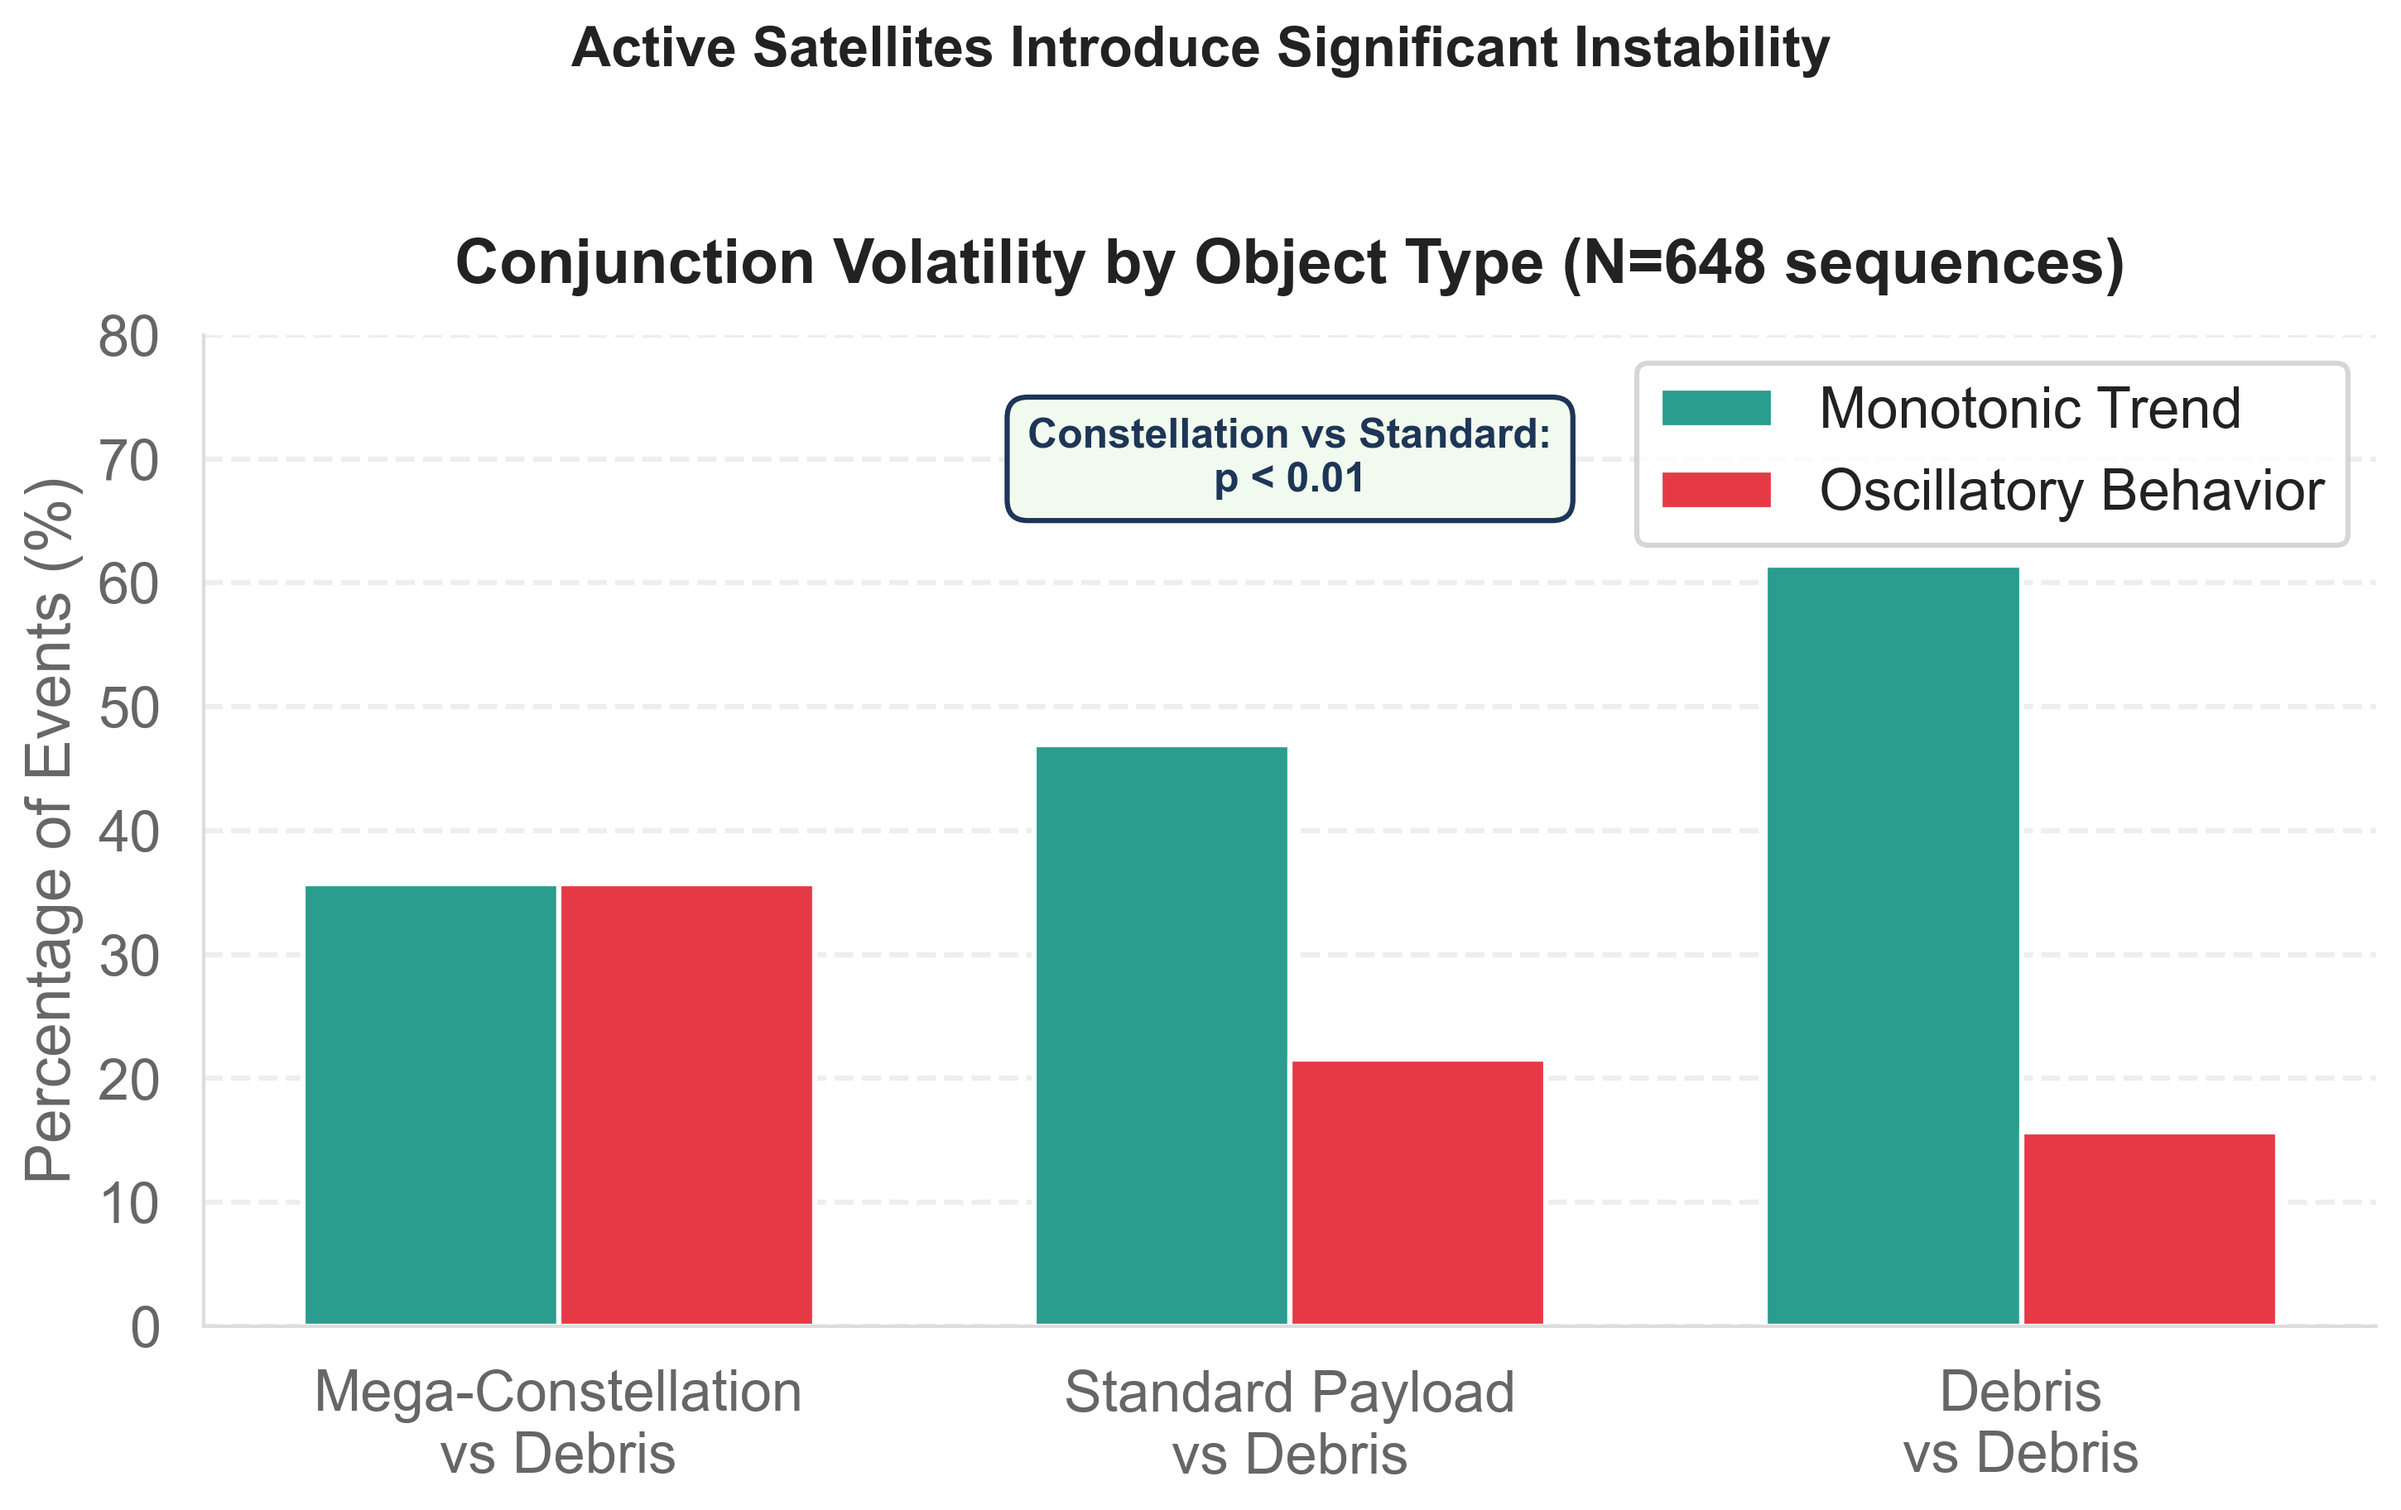
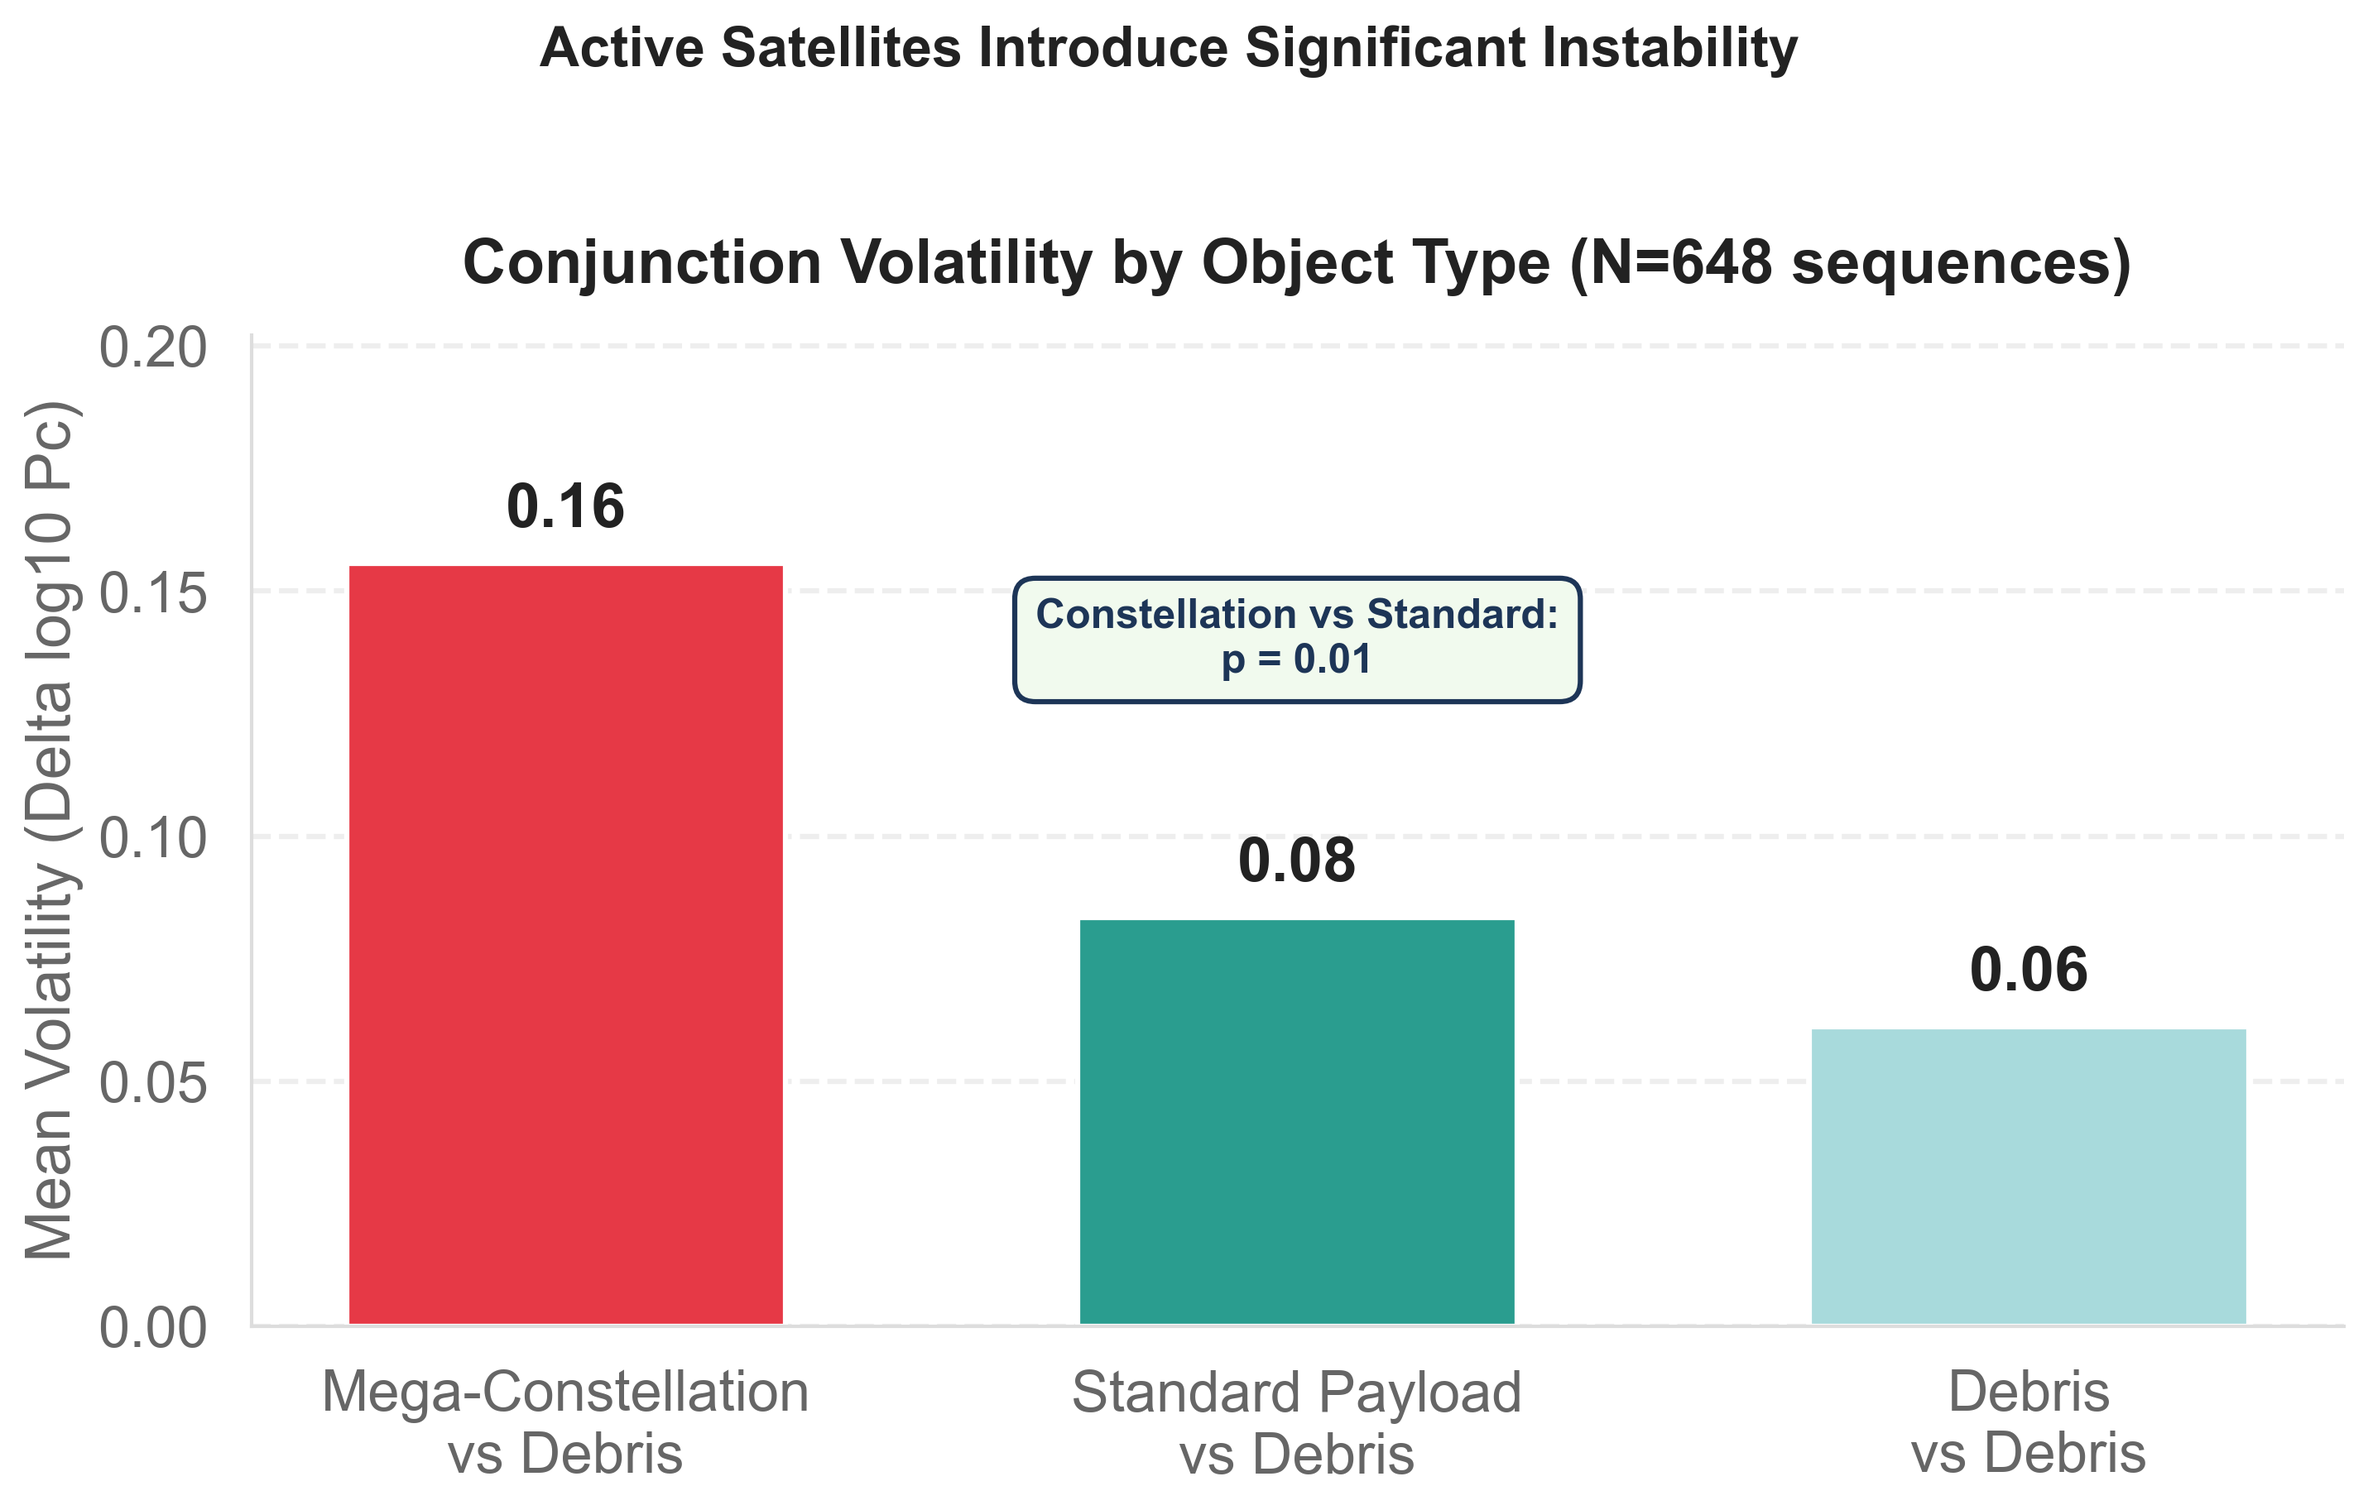
Fix chart 5 mismatch: actually plot volatility rather than shape, and fix p-value strings

diff --git a/visualize_maturation.py b/visualize_maturation.py
@@ -205,36 +205,31 @@ def plot_4_prediction(results):
     save_plot("chart4_prediction.png")
 
 def plot_5_archetypes(results):
-    """Chart 5: Object type comparison (Grouped bars)."""
+    """Chart 5: Object type comparison (Volatility Bar Chart)."""
     plt.figure(figsize=(10, 6))
     
     archs = ["CONSTELLATION-DEBRIS", "STANDARD PAYLOAD-DEBRIS", "DEBRIS-DEBRIS"]
     labels = ["Mega-Constellation\nvs Debris", "Standard Payload\nvs Debris", "Debris\nvs Debris"]
     
-    mono_rates = [
-        (results["archetypes"].get(a, {}).get("m2_monotonic", 0) / results["archetypes"][a]["total"] * 100) 
-        if a in results["archetypes"] and results["archetypes"][a]["total"] > 0 else 0.0
-        for a in archs
-    ]
-    
-    osc_rates = [
-        (results["archetypes"].get(a, {}).get("m2_oscillation", 0) / results["archetypes"][a]["total"] * 100) 
-        if a in results["archetypes"] and results["archetypes"][a]["total"] > 0 else 0.0
-        for a in archs
-    ]
+    means = []
+    for a in archs:
+        deltas = results["archetypes"].get(a, {}).get("stability_deltas", [])
+        means.append(np.mean(deltas) if deltas else 0.0)
     
     x = np.arange(len(labels))
-    width = 0.35
+    colors = ['#E63946', '#2A9D8F', '#A8DADC']
     
-    plt.bar(x - width/2, mono_rates, width, label='Monotonic Trend', color='#2A9D8F')
-    plt.bar(x + width/2, osc_rates, width, label='Oscillatory Behavior', color='#E63946')
+    bars = plt.bar(x, means, width=0.6, color=colors)
     
     plt.suptitle("Active Satellites Introduce Significant Instability", weight="bold", fontsize=16, y=1.02)
     plt.title("Conjunction Volatility by Object Type (N=648 sequences)", pad=15)
-    plt.ylabel("Percentage of Events (%)")
+    plt.ylabel("Mean Volatility (Delta log10 Pc)")
     plt.xticks(x, labels)
-    plt.ylim(0, 80)
-    plt.legend(loc='upper right')
+    
+    for bar in bars:
+        yval = bar.get_height()
+        plt.text(bar.get_x() + bar.get_width()/2, yval + 0.005, f"{yval:.2f}", 
+                 ha='center', va='bottom', weight='bold')
     
     # Overlay p-value
     const_deltas = results["archetypes"].get("CONSTELLATION-DEBRIS", {}).get("stability_deltas", [])
@@ -242,10 +237,16 @@ def plot_5_archetypes(results):
     
     if const_deltas and std_deltas:
         _, p_val = stats.mannwhitneyu(const_deltas, std_deltas, alternative='greater')
-        plt.text(1.0, 70, f"Constellation vs Standard:\np < {max(0.01, p_val):.2f}", 
+        if p_val < 0.01:
+            p_text = "p < 0.01"
+        else:
+            p_text = f"p = {p_val:.2f}"
+            
+        plt.text(1.0, max(means) * 0.9, f"Constellation vs Standard:\n{p_text}", 
                  ha='center', va='center', fontsize=12, weight='bold', color='#1D3557',
                  bbox=dict(facecolor='#F1FAEE', edgecolor='#1D3557', boxstyle='round,pad=0.5'))
                  
+    plt.ylim(0, max(means) * 1.3)
     save_plot("chart5_archetypes.png")
 
 def plot_6_flowchart(results):
@@ -368,12 +369,17 @@ def plot_8_spaceweather(results):
     
     for bar in bars:
         yval = bar.get_height()
-        plt.text(bar.get_x() + bar.get_width()/2, yval + 0.005, f"{yval:.2f}", 
+        plt.text(bar.get_x() + bar.get_width()/2, yval + 0.002, f"{yval:.3f}", 
                  ha='center', va='bottom', weight='bold')
                  
     if high and low:
         _, p_val = stats.mannwhitneyu(high, low, alternative='greater')
-        plt.text(0.5, max(means) * 1.15, f"Statistical Significance:\np < {max(0.01, p_val):.2f}", 
+        if p_val < 0.01:
+            p_text = "p < 0.01"
+        else:
+            p_text = f"p = {p_val:.2f}"
+            
+        plt.text(0.5, max(means) * 1.15, f"Statistical Significance:\n{p_text}", 
                  ha='center', va='center', fontsize=12, weight='bold', color='#1D3557',
                  bbox=dict(facecolor='#F1FAEE', edgecolor='#1D3557', boxstyle='round,pad=0.5'))
                  
